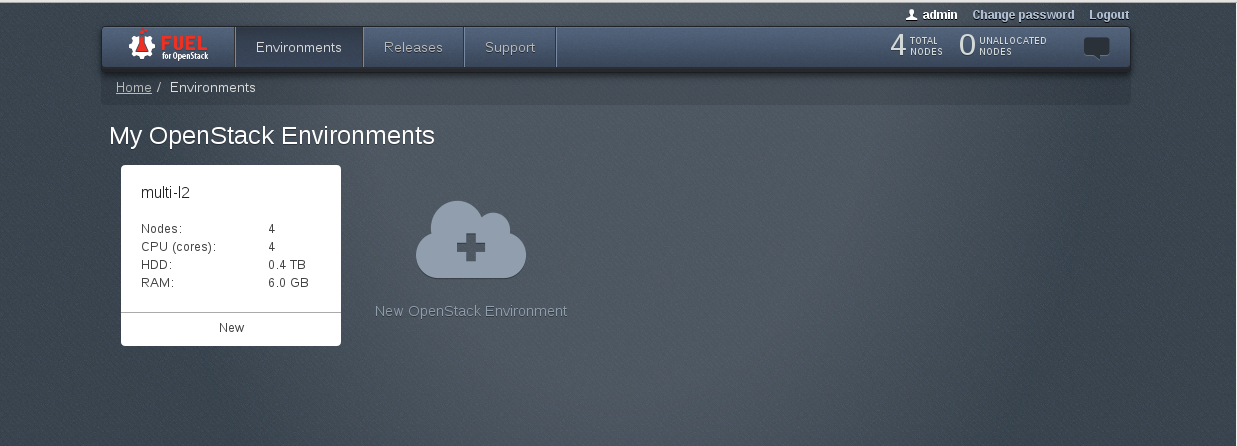
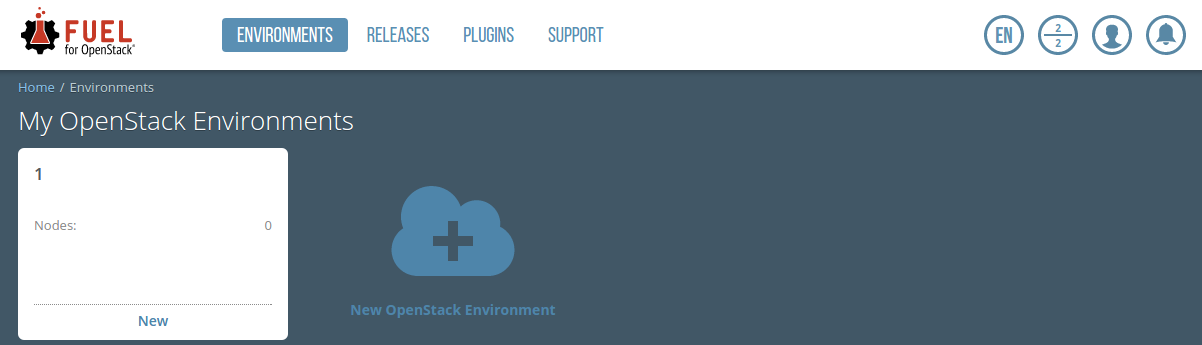
Fuel 7.0 UI changes
Update the Fuel 7.0 UX workflow and add
the dashboard tab. This commit focuses on the dashboard changes,
and the Nodes tab with sorting, filtering, and adding custom labels.
We are not changing the entire userguide with this commit.
Other commits will follow to change the rest.

diff --git a/pages/user-guide/stop_reset/0200-stop-deploy-ui.rst b/pages/user-guide/stop_reset/0200-stop-deploy-ui.rst
@@ -3,8 +3,9 @@
 Stopping Deployment from Web UI
 -------------------------------
 
-Click on the small red button that appears to the right of the progress bar
-after you click "Deploy changes" and deployment itself starts:
+On the Dashboard, click on the small red button that appears to the
+right of the progress bar after you click "Deploy changes" and
+deployment itself starts:
 
 .. image:: /_images/stop_deployment_button.png
   :align: center
@@ -21,26 +22,26 @@ This may lead to one of two possible results:
    the environment may then be redeployed from scratch.
    Two things will happen in UI:
 
-    * All nodes are marked as offline
-      and are eventually return back online after reboot.
-      You can not deploy an environment that includes offline nodes,
-      so the next deployment should not be started
-      until all nodes have been successfully discovered
-      and reported as online in the UI.
-    * All settings will be unlocked on all tabs and for all nodes,
-      so that you can change any setting before starting a new deployment.
+   * All nodes are marked as offline
+     and are eventually return back online after reboot.
+     You can not deploy an environment that includes offline nodes,
+     so the next deployment should not be started
+     until all nodes have been successfully discovered
+     and reported as online in the UI.
+   * All settings will be unlocked on all tabs and for all nodes,
+     so that you can change any setting before starting a new deployment.
 
-    This is quite similar to resetting the environment (:ref:`Reset_Environment`).
+   This is quite similar to resetting the environment (:ref:`Reset_Environment`).
 
 #. Some nodes are already deployed (usually controllers)
    and have reached "ready" status in the UI.
    In this case, the behavior is different:
 
-    * Only nodes which did not reach "ready" status are rebooted
-      back to bootstrap; deployed ones remain intact.
-    * Settings remain locked
-      because they have been already applied to some nodes.
-      You may reset the environment (:ref:`Reset_Environment`)
-      to reboot all nodes, unlock all parameters,
-      and redeploy an environment from scratch to apply them again.
+   * Only nodes which did not reach "ready" status are rebooted
+     back to bootstrap; deployed ones remain intact.
+   * Settings remain locked
+     because they have been already applied to some nodes.
+     You may reset the environment (:ref:`Reset_Environment`)
+     to reboot all nodes, unlock all parameters,
+     and redeploy an environment from scratch to apply them again.
 

diff --git a/pages/user-guide/config-environment/1000-assign-roles.rst b/pages/user-guide/config-environment/1000-assign-roles.rst
@@ -28,7 +28,7 @@ and a list of unallocated nodes at the bottom.
 As you make your selections,
 Fuel displays an icon
 (a gold triangle with an exclamation point)
-next to roles that are not allowed.
+next to the roles that are not allowed.
 It also tells you about other environment settings that are required.
 
 .. image:: /_images/user_screen_shots/assign-roles2.png
@@ -38,40 +38,38 @@ If you want to modify the roles assigned to a node:
 - If you assigned the wrong role to a node
   (for example, you defined a node as a Compute node but want it
   to be a Ceph OSD node),
-  select that node and click the "Delete" button.
+  select that node and click the "Delete" button:
+
+  .. image:: /_images/user_screen_shots/assign-roles3.png
+
   This moves that node back to the pool of "Unallocated nodes"
   so you can click on "Add Node" to assign a new role.
 - If you want to add a role to a node
   (for example, you defined a node as a Compute node but want it
   to also have a Ceph OSD role),
-  select that node and click the additional roles you want to assign
-  (in this case, click the "Ceph OSD" node
-  and leave the "Compute" role selected);
-  click the "Apply Changes" button.
+  select that node and click "Edit Roles":
 
-When you click the "Apply Changes" button,
-Fuel displays the configuration you have chosen:
-
-
-.. image:: /_images/user_screen_shots/assign-role-confirm.png
-
+  .. image:: /_images/user_screen_shots/assign-roles4.png
 
 To rename the nodes, click on the "Untitled" string
 for each node and then type in the name you want to use.
 The suffix is the last digits of the MAC address for this node;
 you can keep these digits or delete them.
 
-Beginning with Fuel 6.1, you can remove
-a node from inventory if it is dead or
-there is need to delete it from the cluster.
-To do that, you should click **Forget** button
-next to the required node. This works for any offline
-node both deployed and not.
+You can remove an offline node from the inventory by selecting it
+and clicking "Remove". This will remove the node from the pool
+of available nodes completely.
+
+You can also delete any node from the environment by selecting it
+and clicking "Delete". This will delete the node and return it to the
+pool of unallocated nodes.
+
+To do that, you should select the node and hit *Delete*. This
+works for any offline node both deployed and not.
 To remove any node from inventory using the
 Fuel CLI, see :ref:`Remove a node from Fuel DB <remove-inv>`.
 
 .. image:: /_images/user_screen_shots/remove-node-inventory.png
-
 
 For more information, see:
 

diff --git a/pages/user-guide/5000-deploy-environment.rst b/pages/user-guide/5000-deploy-environment.rst
@@ -8,37 +8,17 @@
 Deploy Changes
 ==============
 
-When you have made all the configuration changes you want to make,
-click the "Deploy Changes" button
+When you have made all the configuration changes you want to make
+and reviewed them on the Dashboard, click the "Deploy Changes" button
 to deploy the environment you have defined.
 
-When you are satisfied with your configuration,
-click on the "Deploy Changes" button.
-The following screen is displayed
-to summarize the configuration modifications you have made:
-
-.. image:: /_images/user_screen_shots/assign-role-confirm2.png
-   :width: 50%
-
-This is your last chance to change the configuration;
-check it carefully and,
-if this is not the configuration you want to deploy, click "Cancel".
-If this is the configuration you want,
-click "Deploy";
-after this, you cannot modify the configuration without starting over.
+.. image:: /_images/user_screen_shots/deploy-changes-dashboard.png
 
 It can take fifteen minutes to an hour to deploy Mirantis OpenStack,
 depending on the options chosen;
 deployment times out at two hours.
-You can monitor the progress by opening the **Nodes** tab
-or by checking individual node logs in the **Logs** tab.
+You can monitor the progress on the Dashboard, on the "Nodes" tab, or
+on the Fuel UI home page.
 
 .. include:: /pages/user-guide/stop_reset/0200-stop-deploy-ui.rst
 .. include:: /pages/user-guide/stop_reset/0500-reset-environment.rst
-
-Note, that beginning with Fuel 6.1, the Fuel web UI
-displays warnings if you try to press **Deploy** button
-with network verification in progress, failed or
-skipped. See :ref:`Verify networks <verify-networks-ug>` for
-more details and screenshots.
-

diff --git a/pages/user-guide/create-environment/1500-name-distro.rst b/pages/user-guide/create-environment/1500-name-distro.rst
@@ -14,29 +14,24 @@ and select the Linux distribution from the drop-down list:
 
 ::
 
-    Juno on Ubuntu 14.04.1 (2014.2.2-6.1)(default)
-    Juno on CentOS 6.5 (2014.2.2-6.1)
+    Kilo on Ubuntu 14.04.1 (2015.1.0-7.0) (default)
 
 This is the operating system that will be installed
 on the target nodes in the environment.
-See :ref:`linux-distro-plan` for guidelines
-about choosing the distribution to use.
 
 The number in parentheses
-is the version number for each environment version;
-it is formed by concatenating the Juno Release number
+is the version number for the environment;
+it is formed by concatenating the Kilo Release number
 and the Mirantis OpenStack Release number.
-In this case, the "2014.2" string corresponds to the Juno release version;
-the "6.1" string is the Mirantis OpenStack release number.
+In this case, the "2015.1" string corresponds to the Kilo release version;
+the "7.0" string is the Mirantis OpenStack release number.
 
 Note that the list displayed under the "Releases" tab
 at the top of the Fuel home page
-lists all the releases that Fuel 6.1 can manage
+lists all the releases that Fuel 7.0 can manage
 in your environment.
 If you upgraded Fuel
 from an earlier Mirantis OpenStack release,
-Fuel 6.1 can manage environments that were previously deployed
+Fuel 7.0 can manage environments that were previously deployed
 using those releases.
 It cannot, however, deploy a new environment using those releases.
-
-

diff --git a/pages/user-guide/stop_reset/0500-reset-environment.rst b/pages/user-guide/stop_reset/0500-reset-environment.rst
@@ -16,7 +16,7 @@ The deployment process may be completed in one of three ways
    (see :ref:`Stop_Deployment`)
 
 Any of these three possibilities causes the "Reset" button
-in the "Actions" tab to become unlocked:
+on the Dashboard to become unlocked:
 
 .. image:: /_images/reset_environment_button.png
   :align: center
@@ -26,10 +26,10 @@ Click this button to reset the whole environment
 back to the state it was in
 right before the "Deploy changes" button was first clicked.
 
-    * All nodes will be offline; they will come back online after reboot.
-      You can not deploy an environment that includes offline nodes,
-      so you should start the next deployment
-      after all nodes have been successfully discovered
-      and reported as online in UI.
-    * All settings will be unlocked on all tabs and for all nodes,
-      so you can modify any setting before starting a new deployment.
+* All nodes will be offline; they will come back online after reboot.
+  You can not deploy an environment that includes offline nodes,
+  so you should start the next deployment
+  after all nodes have been successfully discovered
+  and reported as online in UI.
+* All settings will be unlocked on all tabs and for all nodes,
+  so you can modify any setting before starting a new deployment.

diff --git a/pages/user-guide/config-environment/0900-add-nodes.rst b/pages/user-guide/config-environment/0900-add-nodes.rst
@@ -4,12 +4,23 @@
 Add nodes to the environment
 ----------------------------
 
-The initial screen shows the total number of nodes
-that have been discovered in your environment
-and the number of nodes that are unallocated.
-Click on the "Add nodes" button to add nodes
+The default screen shows the total number of nodes
+that have been discovered in your environment.
+And the ratio of unallocated to total nodes is shown in the top right
+of the page.
+Click on the "Add nodes" button on the Dashboard to add nodes
 to your environment:
 
 .. image:: /_images/user_screen_shots/add-nodes1.png
    :width: 80%
 
+You can review your nodes on the "Nodes" tab. Here you you can
+also manage, sort, filter the list of nodes, as well as look for
+a specific node by its name, MAC, or IP address:
+
+.. image:: /_images/user_screen_shots/manage-nodes.png
+
+To add a custom label to a node, select the node and hit the label
+icon:
+
+.. image:: /_images/user_screen_shots/manage-nodes2.png

diff --git a/pages/user-guide/create-environment/1000-start-create-env.rst b/pages/user-guide/create-environment/1000-start-create-env.rst
@@ -22,6 +22,14 @@ The Fuel UI screen appears:
 .. image:: /_images/user_screen_shots/create_new_environ.png
    :width: 80%
 
+The Dashboard tab is your go-to place to review all the necessary
+information about your OpenStack environment:
+
+.. image:: /_images/user_screen_shots/fuel-dashboard01.png
+
+The Dashboard tab is also the place where you can delete or rename your
+environment, discard the changes, start or stop the deployment,
+access documentation, and view possible errors reported by Fuel.
 
 Click on the "New OpenStack environment" icon
 to launch the wizard that creates a new OpenStack environment.
@@ -29,4 +37,3 @@ to launch the wizard that creates a new OpenStack environment.
 If you are deploying a Mirantis OpenStack environment
 that is integrated with VMware vSphere,
 follow the instructions in :ref:`vcenter-deploy`.
-

diff --git a/pages/user-guide/create-environment/1050-change-password.rst b/pages/user-guide/create-environment/1050-change-password.rst
@@ -2,9 +2,19 @@
 
 Change Fuel Password
 --------------------
+It is highly recommended that you change the default password
+to the one that meets your company's security requirements.
 
-You can change the Fuel password from the Fuel UI screen;
-click on "Change password" at the upper right of the screen.
+Until you do, Fuel will keep reminding you that the password
+has not been changed yet:
+
+.. image:: /_images/user_screen_shots/change_pass_notification.png
+
+You can change the Fuel password from the Fuel UI screen
+Click the user icon at the upper right of the screen:
+
+.. image:: /_images/user_screen_shots/change_pass_ui.png
+
 The following screen is displayed:
 
 .. image:: /_images/authx/change_pass_not_vis.png

diff --git a/pages/user-guide/config-environment/1200-customize-partitions.rst b/pages/user-guide/config-environment/1200-customize-partitions.rst
@@ -28,12 +28,9 @@ The following partition types may be configured:
 - MongoDB: used for Ceilometer information stored in MongoDB
 - Mysql database: stores Zabbix statistics on Zabbix nodes
 
-To modify the disk allocation,
-click on the bar for a disk.
-This example is for a node that runs
-both a Compute node and a Storage - Cinder role;
-clicking on the center bar gives a display
-similar to the following:
+To modify the disk allocation, click *Configure Disks*:
+
+.. image:: /_images/user_screen_shots/partition-disks0.png
 
 .. image:: /_images/user_screen_shots/partition-disks.png
    :width: 80%

diff --git a/pages/user-guide/health-checks/0200-run-tests.rst b/pages/user-guide/health-checks/0200-run-tests.rst
@@ -4,7 +4,7 @@ Running Post-Deployment Checks
 Now, let`s take a closer look on what should be done to execute the tests and
 to understand if something is wrong with your OpenStack environment.
 
-.. image::  /_images/001-health-check-tab.jpg
+.. image::  /_images/001-health-check-tab.png
   :align: center
   :width: 100%
 
@@ -34,7 +34,7 @@ this section.
 
 An actual test run looks like this:
 
-.. image::  /_images/002-health-check-results.jpg
+.. image::  /_images/002-health-check-results.png
   :align: center
   :width: 100%
 
